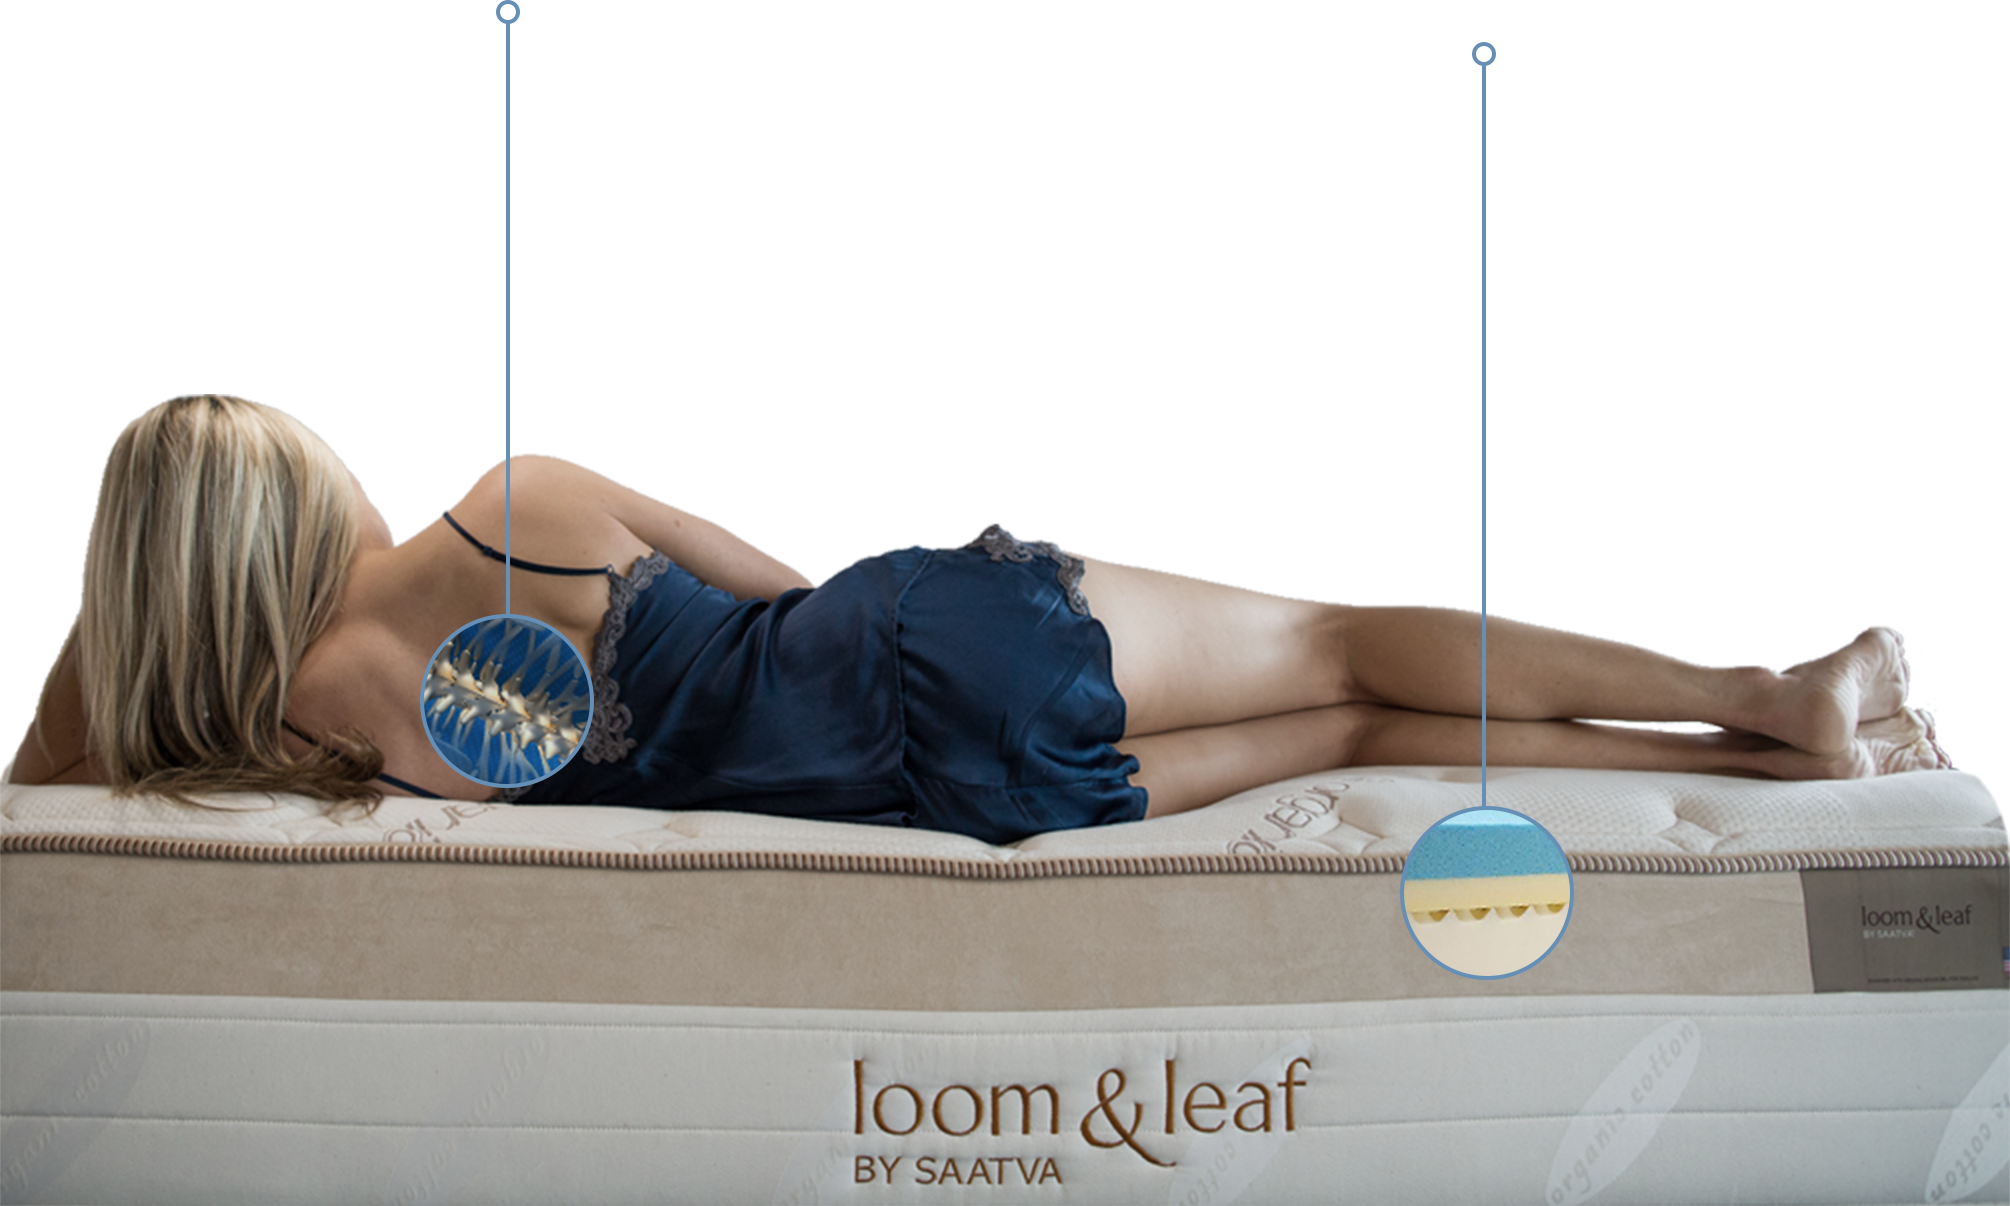
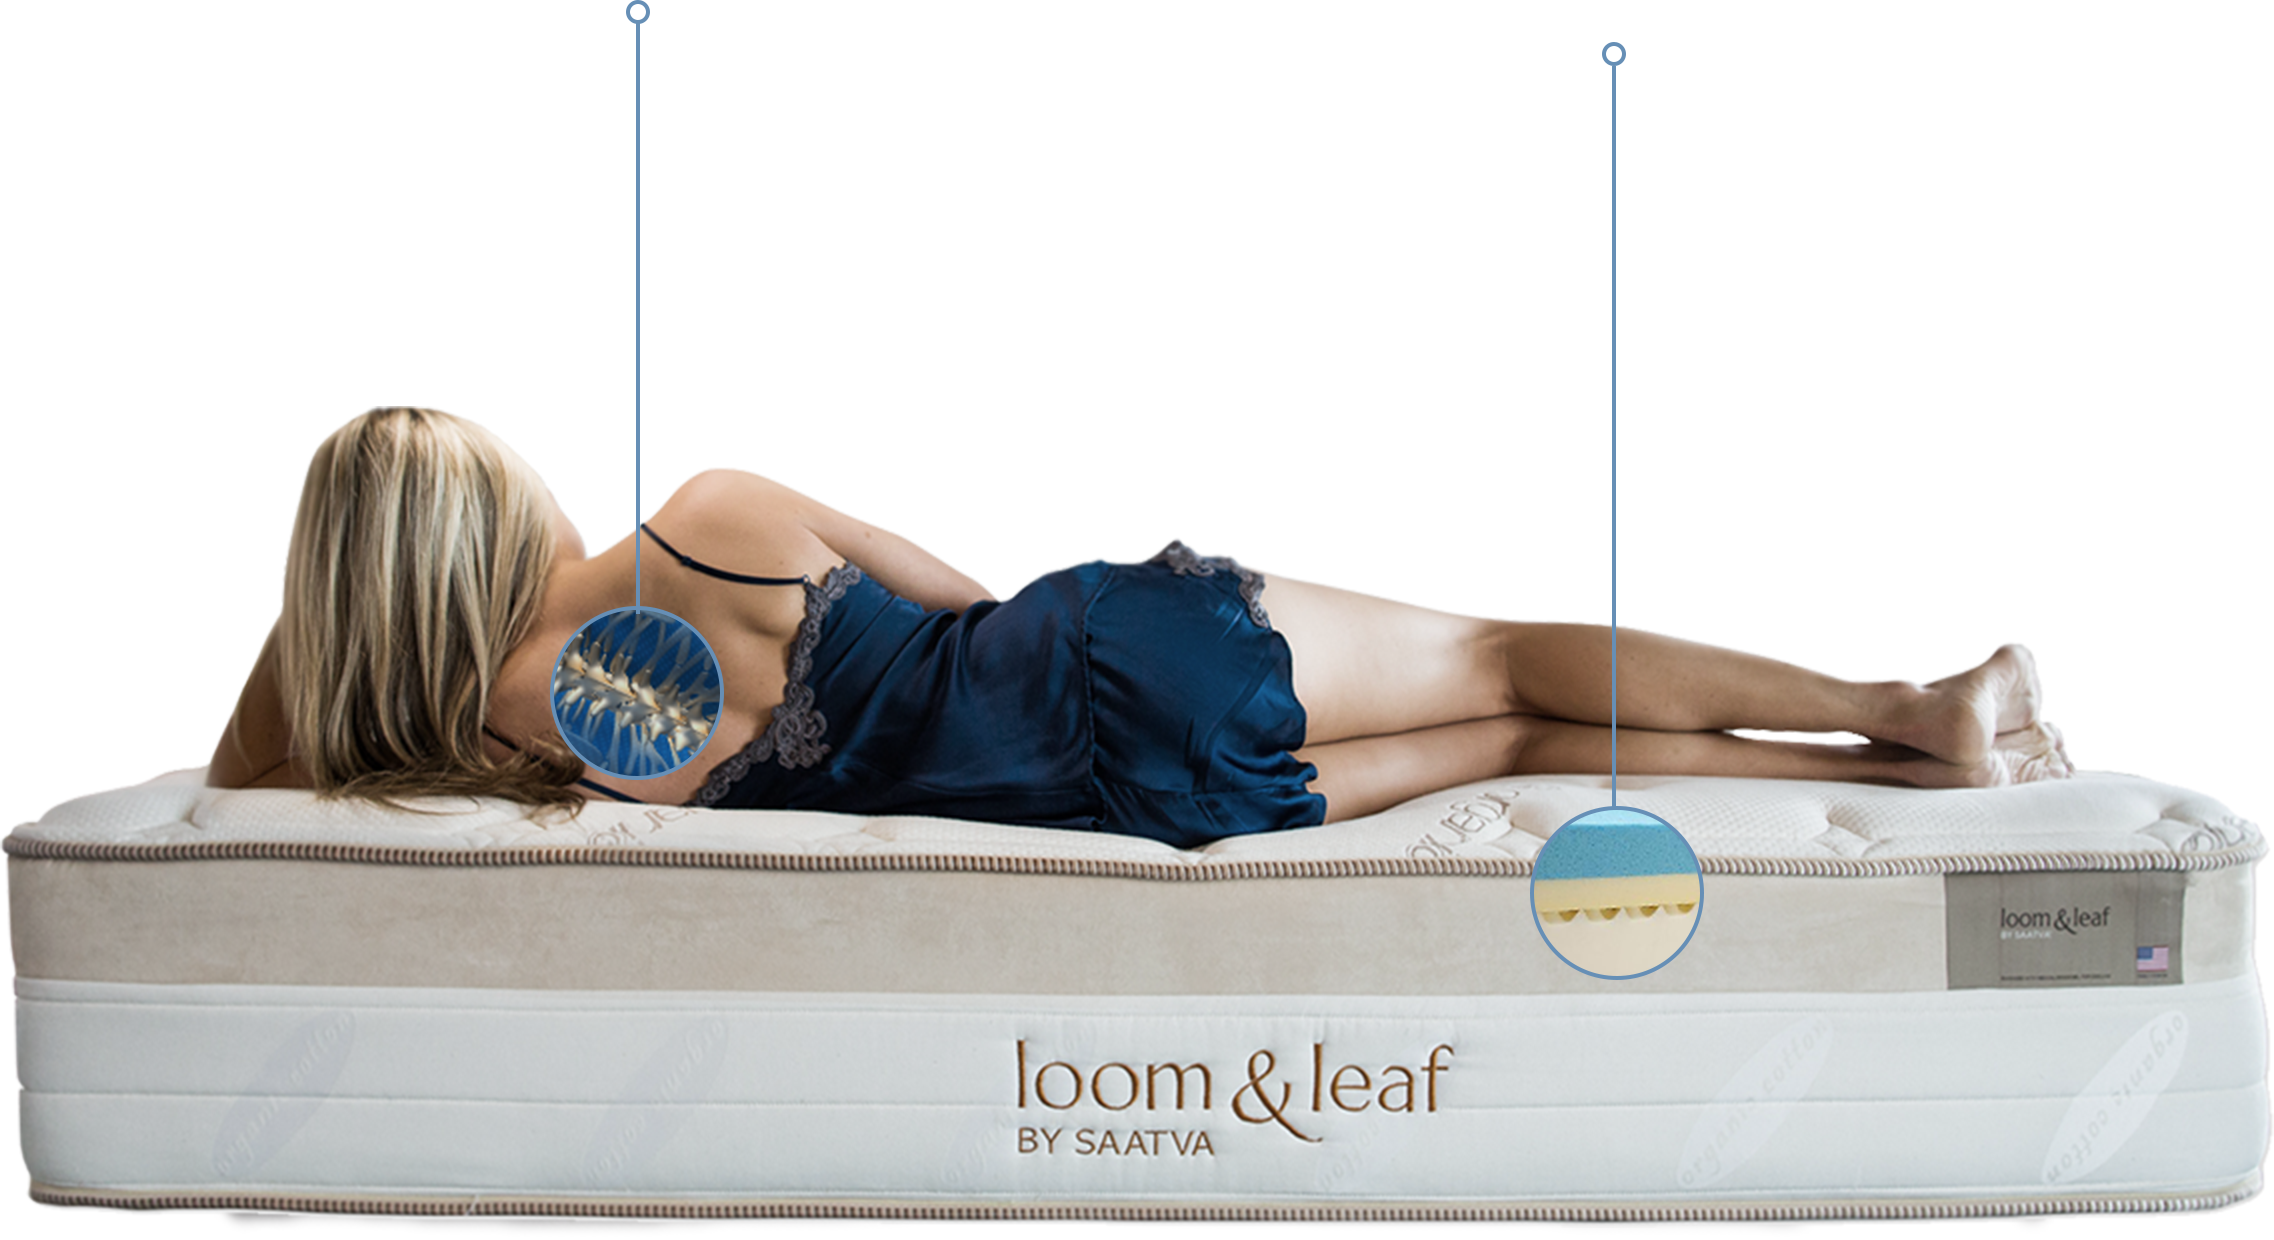
updated images and styles for health and cooling

diff --git a/assets/styles/healthandcooling.less b/assets/styles/healthandcooling.less
@@ -11,7 +11,7 @@
     background-image: url('/images/hero_health.png');
     background-repeat: no-repeat;
     background-size: 50%;
-    background-position: 50% 100%;
+    background-position: 50% 110%;
     // .clearfix ();
     .hero-mattress {
       // .clearfix ();
@@ -256,14 +256,15 @@
 
 @media screen and (min-width: 1500px) {
   .hero {
-    background-size: 30%;
+    background-size: 33%;
   }
 }
 
 
   @media screen and (max-width: 1200px) {
     .hero {
-      // background-size: 30%;
+      background-size: 64%;
+      background-position: 50% 106%;
       .clearfix ();
       .container {
         padding-bottom: 200px;
@@ -300,6 +301,8 @@
 
   @media screen and (max-width: 1000px) {
     .hero {
+      background-size: 90%;
+      background-position: 50% 101%;
       .container {
         .clearfix ();
         .hero-mattress {
